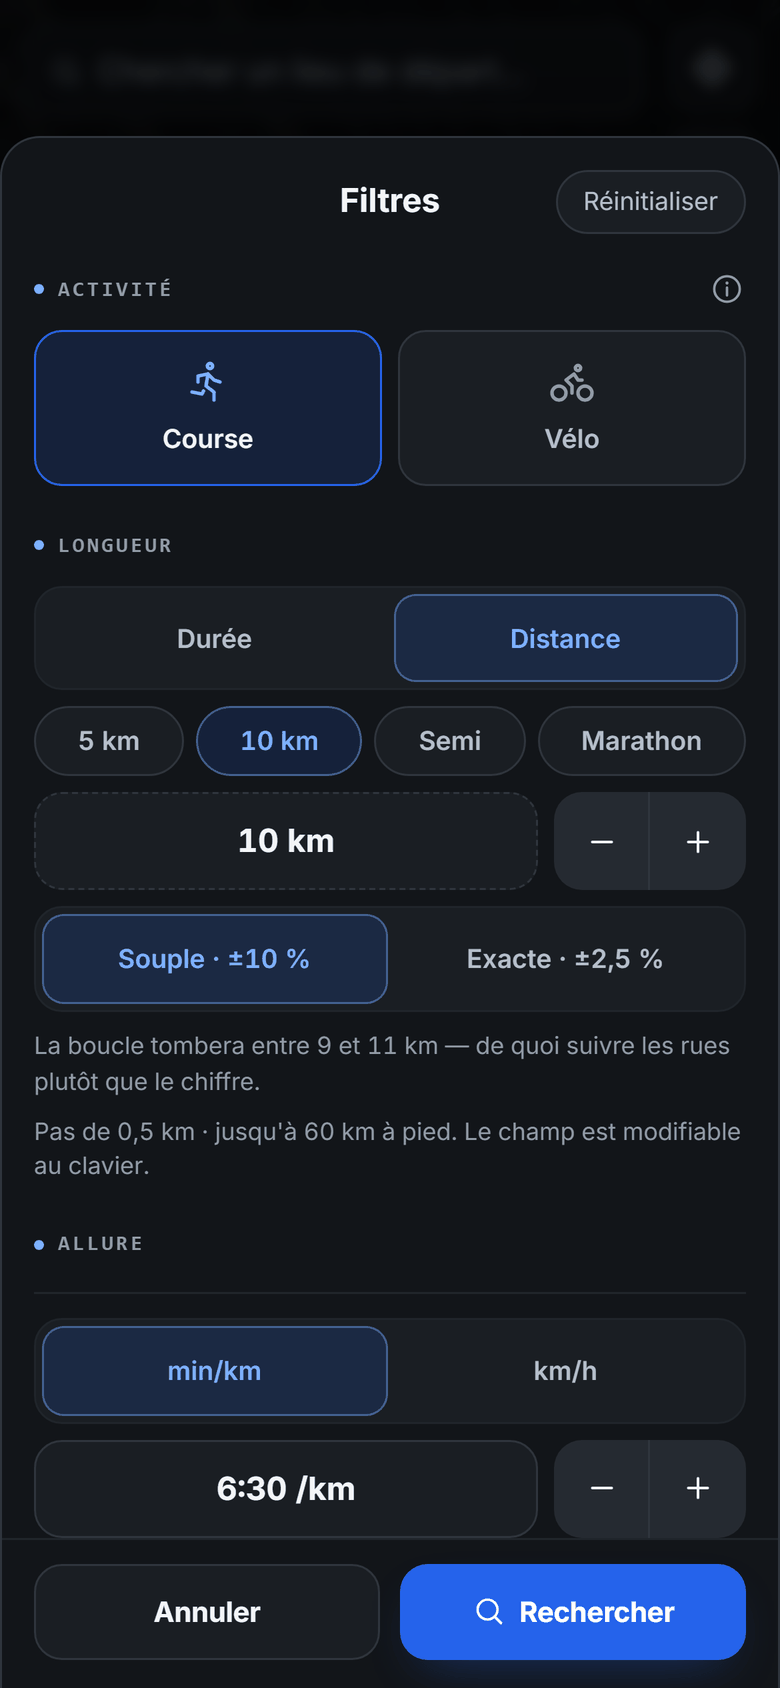
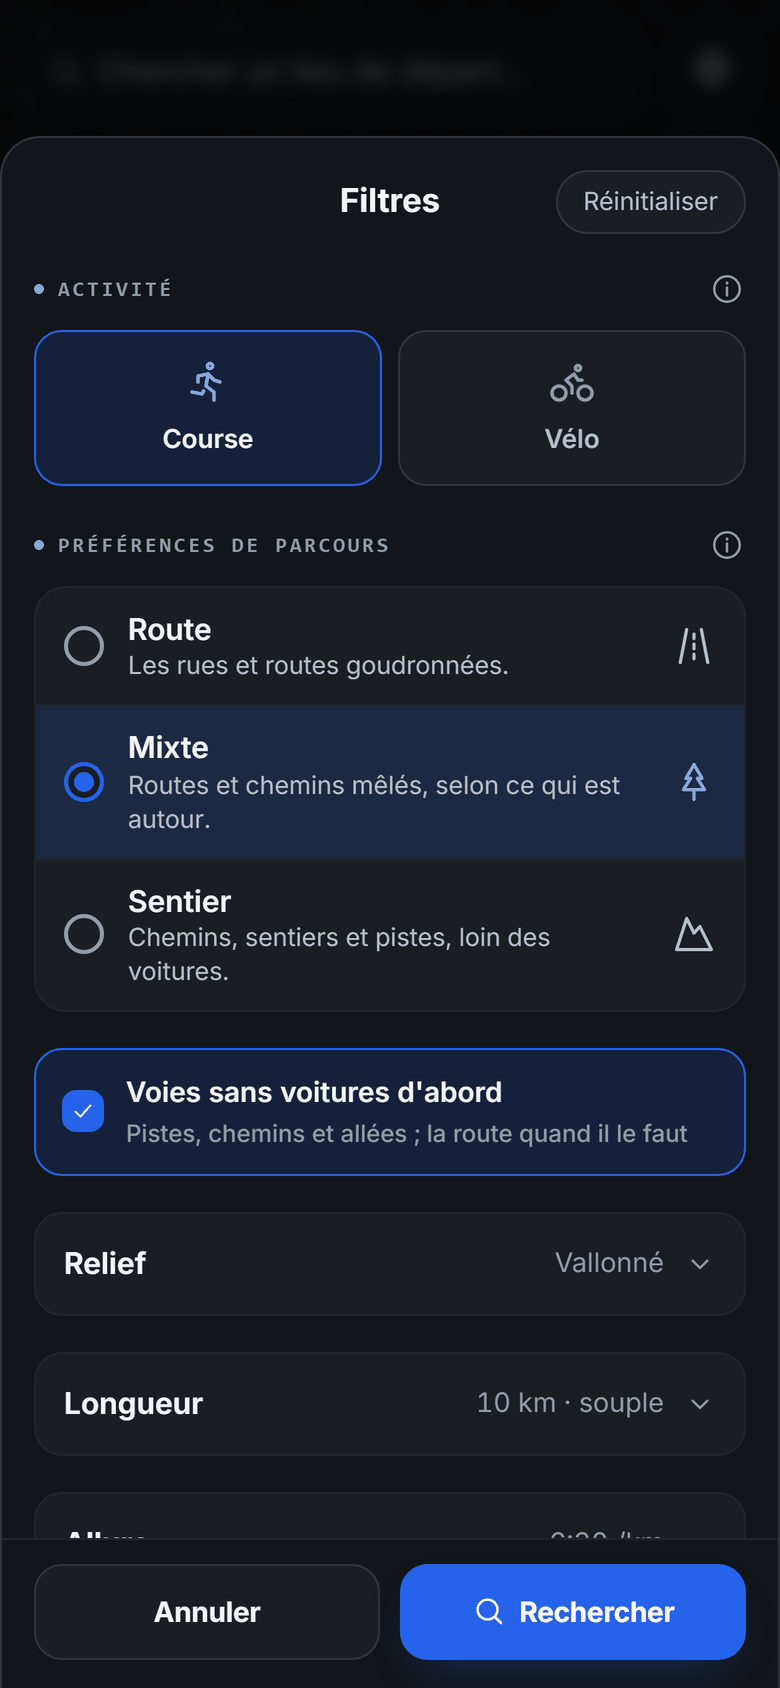
Les filtres montrent d'abord le terrain et le relief : la longueur et l'allure, déjà réglées sur l'accueil, s'y replient en une ligne, et le bouton Filtres dit « Mixte · Vallonné »

diff --git a/frontend/src/FiltersSheet.jsx b/frontend/src/FiltersSheet.jsx
@@ -29,7 +29,7 @@ export const TERRAINS = {
 
 // Les cibles de `engine/service.js`, en mètres de montée par kilomètre : ce
 // que dit aussi « Comprendre le relief » (`explain.js`).
-const RELIEFS = [
+export const RELIEFS = [
   { key: 'flat', label: 'Plat', icon: 'flat', sub: 'Le moins de montée possible · vers 3 m/km' },
   { key: 'rolling', label: 'Vallonné', icon: 'rolling', sub: 'Un peu de relief · vers 10 m/km' },
   { key: 'hilly', label: 'Côtes', icon: 'hilly', sub: 'Les montées recherchées · 20 m/km et plus' },
@@ -275,9 +275,8 @@ function climbStep(m) {
  * de propositions : trois réglages qu'on touche une fois puis plus jamais, au
  * milieu de ceux qu'on ajuste à chaque sortie. Ils sont passés dans « Mon
  * compte », sous « Recherche ». Ce qui reste ici agit sur les boucles
- * proposées, dans l'ordre où on y touche : l'activité, la longueur, le terrain,
- * le dénivelé, la sécurité. La longueur est passée devant le terrain — c'est le
- * réglage qu'on vient changer, et il demandait de faire défiler.
+ * proposées : l'activité, le terrain, le relief — puis la longueur et l'allure,
+ * repliées en une ligne chacune, puisque l'accueil règle déjà la longueur.
  */
 export default function FiltersSheet({ value, origin = null, onApply, onClose }) {
   const [draft, setDraft] = useState(value)
@@ -357,7 +356,93 @@ export default function FiltersSheet({ value, origin = null, onApply, onClose })
             </Field>
           )}
 
-          <Field label="Longueur">
+          {shown('terrain') && (
+            <Field label="Préférences de parcours" info="terrain" sport={draft.sport}>
+              <Choices label="Terrain" options={TERRAINS[draft.sport]} value={draft.surface} onChange={(surface) => set({ surface })} />
+              <div className="checks checks--after">
+                <button
+                  role="checkbox"
+                  aria-checked={draft.carfree !== false}
+                  className={`check ${draft.carfree !== false ? 'check--on' : ''}`}
+                  onClick={() => set({ carfree: draft.carfree === false })}
+                >
+                  <span className="check__box">
+                    <Icon name="check" size={13} />
+                  </span>
+                  <span>
+                    Voies sans voitures d'abord
+                    <em>Pistes, chemins et allées ; la route quand il le faut</em>
+                  </span>
+                </button>
+              </div>
+            </Field>
+          )}
+
+          {shown('relief') && (
+            <Field
+              label="Relief"
+              info="relief"
+              sport={draft.sport}
+              value={climbing ? `${draft.climb_m} m de D+` : RELIEFS.find((o) => o.key === draft.elevation)?.label ?? 'Auto'}
+            >
+              {/* « On ne peut pas demander un D+ en particulier » : la plainte
+                  revient chez RunnrZ. 150 m sur 10 km tombaient entre Vallonné
+                  (100 m) et Côtes (220 m). On part de 10 m par kilomètre, la
+                  cible de Vallonné. */}
+              <Choices
+                label="Relief"
+                options={[...RELIEFS, { key: 'climb', label: 'Un D+ précis', sub: '« Environ 150 m », au mètre près', icon: 'trendUp' }].map((o) => ({
+                  ...o,
+                  badge: reliefBadge(o.key, reachable, o.key === 'climb' ? draft.climb_m / km : null),
+                }))}
+                value={climbing ? 'climb' : draft.elevation}
+                onChange={(key) =>
+                  key === 'climb'
+                    ? set({ climb_m: climbing ? draft.climb_m : Math.max(10, Math.round(km) * 10) })
+                    : set({ elevation: key, climb_m: null })
+                }
+              />
+              {climbing && (
+                <>
+                  <Stepper
+                    text={`${draft.climb_m} m de D+`}
+                    editable={{
+                      value: draft.climb_m,
+                      onCommit: (v) => set({ climb_m: Math.round(clamp(v, 0, MAX_CLIMB)) }),
+                    }}
+                    onStep={(d) => {
+                      const step = climbStep(draft.climb_m + (d > 0 ? 0 : -0.001))
+                      set({ climb_m: round(clamp(draft.climb_m + d * step, 0, MAX_CLIMB), step) })
+                    }}
+                    canDown={draft.climb_m > 0}
+                    canUp={draft.climb_m < MAX_CLIMB}
+                  />
+                  <p className="field__hint">
+                    {`Environ ${formatKm(Math.round((draft.climb_m / km) * 10) / 10)} m par kilomètre. Les boucles entre ${climbBand(
+                      draft.climb_m,
+                      km,
+                    )
+                      .map(Math.round)
+                      .join(' et ')} m passent devant ; entre elles, la sécurité décide.`}
+                  </p>
+                </>
+              )}
+            </Field>
+          )}
+
+          {/* La longueur se règle déjà sur l'accueil, à la règle : ici elle se
+              replie en une ligne, et ne s'ouvre que pour le semi au mètre près,
+              la saisie au clavier ou la tolérance. Même chose pour l'allure,
+              qu'on règle une fois. Ouvertes, les deux poussaient le terrain et le
+              relief — ce qu'on vient vraiment changer ici — sous le pli. */}
+          <Field
+            label="Longueur"
+            value={
+              draft.mode === 'distance'
+                ? `${formatDistance(draft.distance_km)} ${unitLabel()} · ${draft.precise ? 'exacte' : 'souple'}`
+                : formatMinutes(draft.duration_min)
+            }
+          >
             <Segmented
               options={[
                 { key: 'duration', label: 'Durée' },
@@ -488,6 +573,11 @@ export default function FiltersSheet({ value, origin = null, onApply, onClose })
 
           <Field
             label={isBike ? 'Vitesse' : 'Allure'}
+            value={
+              usesSpeed
+                ? `${formatKm(Math.round(speedIn(draft.speed_kmh) * 10) / 10)} ${speedLabel()}`
+                : `${pace(draft.pace_sec_per_km)} ${paceLabel()}`
+            }
           >
             <div className="field__pace">
               {!isBike && (
@@ -524,81 +614,6 @@ export default function FiltersSheet({ value, origin = null, onApply, onClose })
               </p>
             </div>
           </Field>
-
-          {shown('terrain') && (
-            <Field label="Préférences de parcours" info="terrain" sport={draft.sport}>
-              <Choices label="Terrain" options={TERRAINS[draft.sport]} value={draft.surface} onChange={(surface) => set({ surface })} />
-              <div className="checks checks--after">
-                <button
-                  role="checkbox"
-                  aria-checked={draft.carfree !== false}
-                  className={`check ${draft.carfree !== false ? 'check--on' : ''}`}
-                  onClick={() => set({ carfree: draft.carfree === false })}
-                >
-                  <span className="check__box">
-                    <Icon name="check" size={13} />
-                  </span>
-                  <span>
-                    Voies sans voitures d'abord
-                    <em>Pistes, chemins et allées ; la route quand il le faut</em>
-                  </span>
-                </button>
-              </div>
-            </Field>
-          )}
-
-          {shown('relief') && (
-            <Field
-              label="Relief"
-              info="relief"
-              sport={draft.sport}
-              value={climbing ? `${draft.climb_m} m de D+` : RELIEFS.find((o) => o.key === draft.elevation)?.label ?? 'Auto'}
-            >
-              {/* « On ne peut pas demander un D+ en particulier » : la plainte
-                  revient chez RunnrZ. 150 m sur 10 km tombaient entre Vallonné
-                  (100 m) et Côtes (220 m). On part de 10 m par kilomètre, la
-                  cible de Vallonné. */}
-              <Choices
-                label="Relief"
-                options={[...RELIEFS, { key: 'climb', label: 'Un D+ précis', sub: '« Environ 150 m », au mètre près', icon: 'trendUp' }].map((o) => ({
-                  ...o,
-                  badge: reliefBadge(o.key, reachable, o.key === 'climb' ? draft.climb_m / km : null),
-                }))}
-                value={climbing ? 'climb' : draft.elevation}
-                onChange={(key) =>
-                  key === 'climb'
-                    ? set({ climb_m: climbing ? draft.climb_m : Math.max(10, Math.round(km) * 10) })
-                    : set({ elevation: key, climb_m: null })
-                }
-              />
-              {climbing && (
-                <>
-                  <Stepper
-                    text={`${draft.climb_m} m de D+`}
-                    editable={{
-                      value: draft.climb_m,
-                      onCommit: (v) => set({ climb_m: Math.round(clamp(v, 0, MAX_CLIMB)) }),
-                    }}
-                    onStep={(d) => {
-                      const step = climbStep(draft.climb_m + (d > 0 ? 0 : -0.001))
-                      set({ climb_m: round(clamp(draft.climb_m + d * step, 0, MAX_CLIMB), step) })
-                    }}
-                    canDown={draft.climb_m > 0}
-                    canUp={draft.climb_m < MAX_CLIMB}
-                  />
-                  <p className="field__hint">
-                    {`Environ ${formatKm(Math.round((draft.climb_m / km) * 10) / 10)} m par kilomètre. Les boucles entre ${climbBand(
-                      draft.climb_m,
-                      km,
-                    )
-                      .map(Math.round)
-                      .join(' et ')} m passent devant ; entre elles, la sécurité décide.`}
-                  </p>
-                </>
-              )}
-            </Field>
-          )}
-
         </div>
 
         <div className="modal__foot">

diff --git a/frontend/src/FiltersSheet.render.test.jsx b/frontend/src/FiltersSheet.render.test.jsx
@@ -34,6 +34,8 @@ const conversion = () => screen.getByText(/Converti en distance/).textContent.re
 describe('le panneau des filtres', () => {
   it('convertit la durée en distance, et suit l’allure qu’on règle', () => {
     ouvrir({ ...DEFAULTS, mode: 'duration', duration_min: 60, pace_sec_per_km: 390 })
+    déplier('Longueur')
+    déplier('Allure')
     expect(conversion()).toContain('environ 9,2 km')
 
     // Une allure plus lente, c'est moins de kilomètres dans la même heure.
@@ -45,6 +47,7 @@ describe('le panneau des filtres', () => {
 
   it('annonce la durée de la boucle quand on règle une distance', () => {
     ouvrir({ ...DEFAULTS, mode: 'distance', distance_km: 10, pace_sec_per_km: 390 })
+    déplier('Allure')
     expect(screen.getByText(/Environ 1 h 05 pour cette boucle/)).toBeInTheDocument()
   })
 
@@ -117,11 +120,22 @@ describe('le panneau des filtres', () => {
 
   it('montre la vitesse et non l’allure à vélo', () => {
     ouvrir({ ...DEFAULTS, sport: 'bike', speedUnit: 'speed', speed_kmh: 20 })
+    déplier('Vitesse')
     expect(screen.getByText('Vitesse')).toBeInTheDocument()
-    expect(screen.getByText(/20 km\/h/)).toBeInTheDocument()
+    // Dans la ligne repliée et sur le réglage ouvert.
+    expect(screen.getAllByText(/20 km\/h/).length).toBe(2)
     // Le choix d'unité n'a pas de sens à vélo : c'est la vitesse qui part au
     // moteur, quoi qu'on affiche.
     expect(screen.queryByRole('button', { name: 'min/km' })).not.toBeInTheDocument()
+  })
+
+  it('replie la longueur et l’allure en une ligne qui dit leur valeur', () => {
+    ouvrir({ ...DEFAULTS, mode: 'distance', distance_km: 10, precise: true, pace_sec_per_km: 390 })
+    expect(screen.getByRole('button', { name: /^Longueur.*10 km · exacte/ })).toHaveAttribute('aria-expanded', 'false')
+    expect(screen.getByRole('button', { name: /^Allure.*6:30/ })).toBeInTheDocument()
+    expect(screen.queryByRole('button', { name: 'Semi' })).not.toBeInTheDocument()
+    déplier('Longueur')
+    expect(screen.getByRole('button', { name: 'Semi' })).toBeInTheDocument()
   })
 
   it('n’affiche pas un filtre masqué dans les réglages, mais garde la longueur', () => {
@@ -135,6 +149,7 @@ describe('le panneau des filtres', () => {
 
   it('propose à vélo des distances et des durées de cycliste', () => {
     ouvrir({ ...DEFAULTS, sport: 'bike', speedUnit: 'speed', mode: 'distance', distance_km: 40 })
+    déplier('Longueur')
     expect(screen.queryByRole('button', { name: 'Semi' })).not.toBeInTheDocument()
     const usuelles = within(screen.getByRole('group', { name: 'Distances usuelles' }))
     fireEvent.click(usuelles.getByRole('button', { name: '75 km' }))

diff --git a/frontend/src/request.js b/frontend/src/request.js
@@ -2,7 +2,7 @@
 // terminée à son entrée d'historique. Rien ici ne dépend de React : ce sont des
 // traductions, et elles se testent comme telles.
 
-import { directionOf, estimateKm, formatDistance, formatKm, raceOf, secondsPerKm } from './FiltersSheet.jsx'
+import { RELIEFS, TERRAINS, directionOf, estimateKm, formatDistance, formatKm, raceOf, secondsPerKm } from './FiltersSheet.jsx'
 import { pace } from './format'
 import { slim } from './storage'
 import { paceLabel, unitLabel } from './units'
@@ -94,6 +94,19 @@ export function summarise(p) {
   // « Éviter › Boucles déjà courues » : ce qu'on cherche, ce sont des inédites.
   const fresh = (p.avoid ?? []).includes('known') ? 'inédites' : null
   return [dist, form, fresh, speed].filter(Boolean).join(' · ')
+}
+
+/**
+ * « Mixte · Vallonné » — ce que règlent les filtres, sous leur bouton. La
+ * longueur est écrite en grand juste au-dessus, et l'allure ne change pas le
+ * tracé : ce sont le terrain et le relief qu'on vient y changer.
+ */
+export function filtersLine(p) {
+  const terrain = (TERRAINS[p.sport] ?? TERRAINS.run).find((t) => t.key === p.surface)?.label
+  const relief = p.climb_m != null ? `D+ ${p.climb_m} m` : RELIEFS.find((r) => r.key === p.elevation)?.label
+  const form = p.form === 'laps' ? `${p.laps ?? 2} tours` : FORM_WORDS[p.form]
+  const fresh = (p.avoid ?? []).includes('known') ? 'inédites' : null
+  return [terrain, relief, form, fresh].filter(Boolean).join(' · ')
 }
 
 /** Entrée d'historique d'une sortie sans itinéraire. */

diff --git a/frontend/src/request.test.js b/frontend/src/request.test.js
@@ -1,6 +1,6 @@
 import { describe, expect, it } from 'vitest'
 import { DEFAULTS } from './FiltersSheet.jsx'
-import { freeRunName, runEntry, summarise, toRequest } from './request'
+import { filtersLine, freeRunName, runEntry, summarise, toRequest } from './request'
 
 const start = { lat: 47.9, lon: 7.2 }
 
@@ -82,6 +82,13 @@ describe('la pastille d’activité', () => {
 
   it('ne parle pas de « Semi » à vélo', () => {
     expect(summarise({ ...DEFAULTS, sport: 'bike', mode: 'distance', distance_km: 21.0975 })).toBe('21,098 km · 20 km/h')
+  })
+})
+
+describe('la ligne des filtres', () => {
+  it('dit le terrain et le relief, pas la longueur ni l’allure', () => {
+    expect(filtersLine(DEFAULTS)).toBe('Mixte · Vallonné')
+    expect(filtersLine({ ...DEFAULTS, sport: 'bike', surface: 'trail', climb_m: 300, form: 'laps', laps: 3 })).toBe('VTT · D+ 300 m · 3 tours')
   })
 })
 

diff --git a/frontend/src/Explore.jsx b/frontend/src/Explore.jsx
@@ -21,7 +21,7 @@ import { downloadGpx } from './api'
 import { climbMismatch, nightfall, reliefMismatch, surfaceMismatch, weatherAdvice } from './explain'
 import { km } from './format'
 import { haptic } from './platform'
-import { summarise } from './request'
+import { filtersLine } from './request'
 import { clockTime, turnIcon } from './runFormat'
 import { fromKm, speedIn, speedLabel, toKm, unitLabel, units } from './units'
 import { presets } from './presets'
@@ -396,7 +396,7 @@ export default function Explore({
             <Icon name="sliders" size={17} />
             <span>
               Filtres
-              <em>{summarise(params).split(' · ').slice(1).join(' · ')}</em>
+              <em>{filtersLine(params)}</em>
             </span>
           </button>
           <button className="btn btn--ghost" onClick={onFreeRun}>

diff --git a/docs/interface.md b/docs/interface.md
@@ -82,9 +82,13 @@ du soleil (le même calcul que le moteur, `isNight`), un avertissement le dit
 avec l'heure — c'est le moment où une rue sans éclairage ni trottoir devient
 dangereuse.
 
-**Avant de chercher**, le bouton « Filtres » dit ce qu'on va chercher —
-« 10 km · 6:30/km », « 10 km · 3 tours · inédites · 6:30/km » — sans avoir à
-l'ouvrir.
+**Avant de chercher**, le bouton « Filtres » dit ce qu'il règle — « Mixte ·
+Vallonné », « VTT · D+ 300 m · 3 tours » — sans avoir à l'ouvrir
+(`filtersLine`) ; la longueur est écrite en grand juste au-dessus. Dans le
+panneau, l'activité, le terrain et le relief viennent d'abord ; la longueur et
+l'allure, déjà réglées sur l'accueil ou une fois pour toutes, s'y replient en
+une ligne qui dit leur valeur (« 5 km · souple », « 6:30 /km ») et s'ouvrent
+pour le semi au mètre près, la saisie au clavier ou la tolérance.
 
 **Les longueurs usuelles** : à pied, 5 km, 10 km, Semi et Marathon, au mètre
 près ; à vélo, 25, 50, 75 et 100 km, sans resserrer la tolérance. En durée, la
